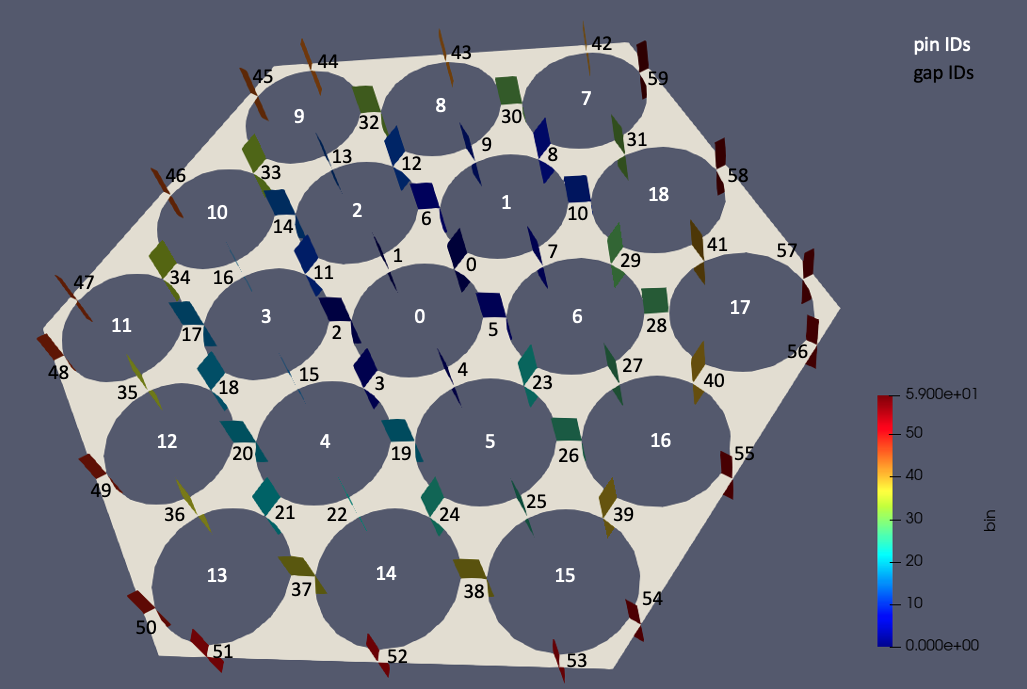
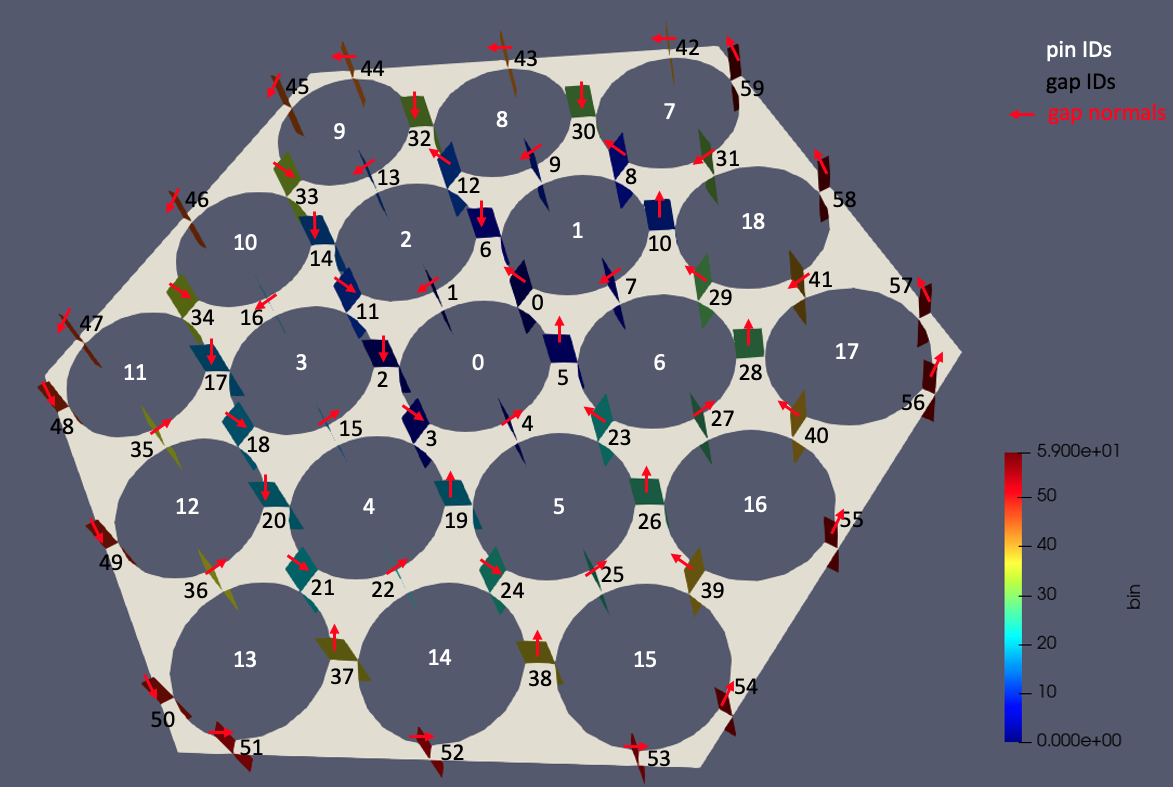
Add gap normal velocity to postprocessing tutorial. Refs #253

diff --git a/doc/content/tutorials/nekrs_outputs.md b/doc/content/tutorials/nekrs_outputs.md
@@ -106,27 +106,29 @@ Cardinal contains features for postprocessing the NekRS solution in spatial
 These user objects can be used for operations such as:
 
 - Averaging the solution over $\theta$ for axisymmetric geometries
-- Extracting homogenized solutions over specified domains, such as for
+- Extracting homogenized solutions, such as for
   feeding volume-averaged quantities to a 3-D Pronghorn model
-- Represent the solution in a different discretization form, such as
+- Representing the solution in a different discretization form, such as
   a finite volume discretization of a subchannel geometry
 
 An example of averaging over axisymmetric geometries was provided in
 [Tutorial 1](tutorials/nekrs_standalone.md). Here, we will demonstrate
-averaging the NekRS solution in a pincell geometry according to a subchannel
+averaging the NekRS solution in a fuel bundle geometry according to a subchannel
 discretization. The input files for this tutorial are available in
 the `tutorials/subchannel` directory.
 
 The model consists of a 7-pin
 [!ac](SFR) fuel bundle; the mesh is shown in [bundle]. Our goal is to obtain
-subchannel-averaged and gap-averaged temperatures on a mesh that reflects a subchannel discretization.
-Note that the mesh does not have elements that
-align with the usual subchannel boundaries.
+subchannel-averaged and gap-averaged temperatures and velocities on a mesh that reflects a subchannel discretization.
+Note that the NekRS mesh does *not* have elements that
+align with the usual subchannel boundaries; therefore we require
+the ability to map the NekRS quadrature points to "bins" that represent
+our different regions of interest (subchannels and subchannel gaps).
 
 !media sfr_nek_mesh.png
   id=bundle
   caption=NekRS mesh for 7-pin [!ac](SFR) fuel bundle; lines are shown connecting [!ac](GLL) points
-  style=width:60%;margin-left:auto;margin-right:auto;halign:center
+  style=width:50%;margin-left:auto;margin-right:auto;halign:center
 
 The NekRS input files use typical settings, for which we refer the reader
 to the [NekRS documentation website](https://nekrsdoc.readthedocs.io/en/latest/index.html)
@@ -151,25 +153,33 @@ given function initial condition of
 T=x+y+3z
 \end{equation}
 
+while the velocity is set to a swirl velocity with an angular component that increases
+with $r$ and zero radial component.
+
 We will run this NekRS case with a thin wrapper input file, shown below. Most settings
 are conventional and have been described thoroughly in the preceding tutorials.
 
 !listing /tutorials/subchannel/nek.i
 
 Of note are the user objects, multiapps, and transfers. In this file, we will compute
-an average of temperature over the volumes of the subchannels and over the gaps between
-subchannels. First, we will describe the averages over the volumes of the subchannels.
+three different postprocessing operations:
+
+- Average of temperature over the volumes of the subchannels
+- Average of temperature over the gaps between subchannels
+- Average of the velocity normal to the gaps between subchannels
+
+First, we will describe the averages over the volumes of the subchannels.
 We will use a user object to
 conduct a binned spatial average of the NekRS temperature. We first form these bins
 as the product of unique indices for each subchannel with unique indices for each
 axial layer. The [HexagonalSubchannelBin](/userobjects/HexagonalSubchannelBin.md)
-object assigns a unique ID for each subchannel in a hexagonal fuel bundle, for which
+object assigns a unique ID for each subchannel, for which
 we must provide various geometric parameters describing the fuel bundle. The
 [LayeredBin](/userobjects/LayeredBin.md) object assigns a unique ID for equal-size
 layers in a given direction; here, we specify 7 axial layers. Finally, we
 will compute a volume average of the NekRS temperature with the
 [NekBinnedVolumeAverage](/userobjects/NekBinnedVolumeAverage.md) object, which
-takes an arbitrary number of individual bin distributions. Because the NekRS mesh
+constructs bins as the outer product of individual bin distributions. Because the NekRS mesh
 in [bundle] has 6 elements in the axial direction, but we have specified that we
 want to average across 7 axial layers, we set `map_space_by_qp = true`. This setting
 will essentially apply a delta function of unity in each layer when forming the
@@ -190,6 +200,9 @@ object, which takes an arbitrary number of individual bin distributions (with th
 only requirement being that one and only one of these distribution is a "side" distribution, which
 for this example is the `HexagonalSubchannelGapBin`).
 
+For the gap average of the normal velocity, we reuse the same previous bins, but set
+`field = velocity_component` for a [NekBinnedSideAverage](/userobjects/NekBinnedSideAverage.md).
+
 The [SpatialUserObjectVectorPostprocessor](https://mooseframework.inl.gov/source/vectorpostprocessors/SpatialUserObjectVectorPostprocessor.html)
 outputs the bin values for the user object to the CSV format
 specified in the `[Outputs]` block. These values are ordered in the same manner
@@ -208,7 +221,9 @@ The application that will be used
 to view the volume results on the channels is shown below.
 This sub-application input
 file constructs a subchannel mesh with the [HexagonalSubchannelMesh](/mesh/HexagonalSubchannelMesh.md)
-to receive the user object into a variable named `average_T`. We set `solve = false` so that
+to receive the user object into a variable named `average_T`
+and the three components of the gap normal velocity as `uo_x`,
+`uo_y`, and `uo_z`. We set `solve = false` so that
 no physics solve occurs in this sub-application.
 
 !listing /tutorials/subchannel/subchannel.i
@@ -232,7 +247,7 @@ block in the Nek-wrapping input file itself, the only output files are:
 
 - `nek_out_subchannel0.e`, which shows the channel-averaged temperature on a subchannel
   discretization
-- `nek_out_subchannel_gap0.e`, which shows the gap-averaged temperature on the
+- `nek_out_subchannel_gap0.e`, which shows the gap-averaged quantities on the
   gaps in a subchannel discretization
 
 The temperature initial condition that we set
@@ -243,6 +258,17 @@ our axial bins, we perfectly represent the channel-wise average temperatures.
 !media subchannel_avgs2.png
   id=sub
   caption=NekRS temperature (left), subchannel-averaged temperature (middle), and gap-averaged temperature (right) computed using Cardinal user objects
+
+By applying the "glyph" filter in Paraview, we can visualize the gap-normal
+velocity with arrows. Otherwise, the result of the `avg_gap_velocity` user object is a *magnitude*,
+which would need to be combined with the gap unit normals
+(defined in the [HexagonalSubchannelGapBin](/userobjects/HexagonalSubchannelGapBin.md) documentation)
+to visualize the direction.
+
+!media subchannel_gap_avg.png
+  id=sub2
+  caption=NekRS temperature (left), subchannel-averaged temperature (middle), and gap-averaged temperature (right) computed using Cardinal user objects
+  style=width:80%;margin-left:auto;margin-right:auto;halign:center
 
 For other geometries, other binning strategies can be used.
 Available user objects for specifying spatial bins are:

diff --git a/doc/content/source/auxkernels/NekSpatialBinComponentAux.md b/doc/content/source/auxkernels/NekSpatialBinComponentAux.md
@@ -1,0 +1,42 @@
+# NekSpatialBinComponentAux
+
+!syntax description /AuxKernels/NekSpatialBinComponentAux
+
+## Description
+
+Displays a component ($x$, $y$, or $z$) of a binned user object
+that integrates/averages a vector NekRS solution field. This auxiliary kernel
+is primarily for visualization purposes so that a "glyph" filter
+can be used in Paraview, or equivalent visualization software, for showing
+a vector-type postprocessed quantity.
+
+## Example Input Syntax
+
+As an example, suppose we use a [NekBinnedSideAverage](/userobjects/NekBinnedSideAverage.md)
+user object to compute the average velocity normal to a set of planes within the
+NekRS domain. The actual result of the [NekBinnedSideAverage](/userobjects/NekBinnedSideAverage.md)
+user object will be the *magnitude* of the average normal velocity in the direction
+of the unit normal vectors. But to be able to visualize these vectors
+in Paraview, we can use the `NekSpatialBinComponentAux` to extract each of the
+three components into variables, that we can then show in a glyph mode.
+
+!listing test/tests/userobjects/hexagonal_gap_layered/normals/nek.i
+  start=AuxVariables
+  end=MultiApps
+
+In the example above, you can use a "glyph" filter in Paraview to visualize
+the directional component of [NekBinnedSideAverage](/userobjects/NekBinnedSideAverage.md),
+as shown below. In this example, the velocity is a swirl velocity in the counterclockwise
+direction with an angular
+component that increases with $r$ and zero radial component.
+
+!media nek_component_aux.png
+  id=bundle
+  caption=NekRS velocity components along the gap-normal directions, visualized with a glyph filter in Paraview by first extracting the components of the `avg_velocity_component` user object with a `NekSpatialBinComponentAux`
+  style=width:60%;margin-left:auto;margin-right:auto;halign:center
+
+!syntax parameters /AuxKernels/NekSpatialBinComponentAux
+
+!syntax inputs /AuxKernels/NekSpatialBinComponentAux
+
+!syntax children /AuxKernels/NekSpatialBinComponentAux

diff --git a/doc/content/source/userobjects/velocity_component.md b/doc/content/source/userobjects/velocity_component.md
@@ -5,3 +5,8 @@ may be one of:
 - `normal`: normal to the face bins (only valid for the side binning user objects)
 - `user`: arbitrary user-specified direction, provided with the `velocity_direction`
   parameter
+
+When using a velocity component as the field, this user object computes the
+dot product of the velocity with the specified direction. To retain the components
+of the dot product, such as for visualizing vector glyphs of the user object result
+in Paraview, you can use a [NekSpatialBinComponentAux](/auxkernels/NekSpatialBinComponentAux.md).

diff --git a/doc/content/source/userobjects/HexagonalSubchannelGapBin.md b/doc/content/source/userobjects/HexagonalSubchannelGapBin.md
@@ -30,6 +30,10 @@ For the gaps connecting a pin to a wall, called "peripheral gaps" here, the
 ordering is counterclockwise starting with the gap connecting the pin
 in the "upper right" corner of the assembly to the top duct wall.
 
+Some user objects allow taking averages of velocity projected onto
+the gap planes. The unit normals for the planes are defined to be in the
+counter-clockwise direction as shown in [fig1].
+
 ## Example Input Syntax
 
 Below is an example input file that computes gap indices (bins)

diff --git a/doc/content/source/userobjects/NekBinnedSideAverage.md b/doc/content/source/userobjects/NekBinnedSideAverage.md
@@ -28,6 +28,8 @@ Setting `field = unity` is equivalent to computing
 1, since the numerator will be exactly equal to the denominator (`unity` is
 of more use for other user objects).
 
+!include velocity_component.md
+
 !include /postprocessors/nondimensional.md
 
 The bins (which can be a combination of side and volume bins) are specified

diff --git a/doc/content/source/userobjects/NekBinnedSideIntegral.md b/doc/content/source/userobjects/NekBinnedSideIntegral.md
@@ -26,6 +26,8 @@ used for computation in NekRS.
 
 Setting `field = unity` is equivalent to computing the surface area.
 
+!include velocity_component.md
+
 !include /postprocessors/nondimensional.md
 
 The bins (which can be a combination of side and volume bins) are specified
